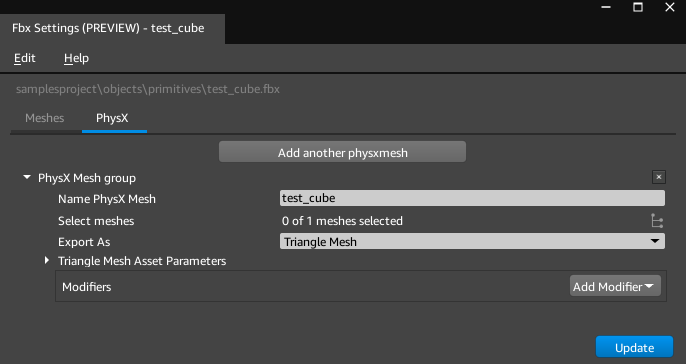
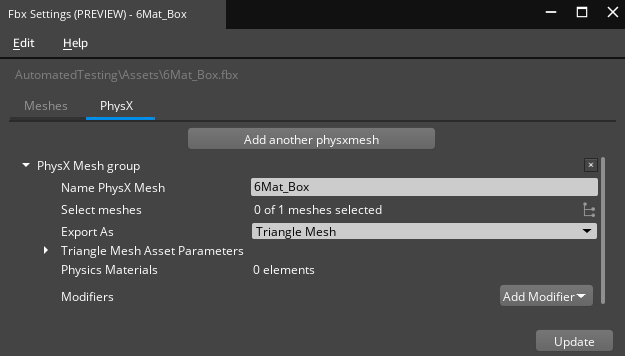
Updated FBX Settings PhysX tab, added Physics Materials entry.

diff --git a/content/docs/user-guide/assets/fbx-settings/settings-physx-tab.md b/content/docs/user-guide/assets/fbx-settings/settings-physx-tab.md
@@ -17,8 +17,8 @@ There are many options for creating PhysX collider assets\. The *best* options i
 + [Primitive asset properties](#fbx-importer-physx-tab-primitive-properties)
 + [Decomposition properties](#fbx-importer-physx-tab-decomposition-properties)
 + [PhysX modifiers](#fbx-settings-physx-modifiers)
-+ [Comment modifier](#w31aac15b9c11c17c23)
-+ [Origin modifier](#w31aac15b9c11c17c25)
+    + [Comment modifier](#w31aac15b9c11c17c23)
+    + [Origin modifier](#w31aac15b9c11c17c25)
 
 ## PhysX tab properties {#fbx-importer-physx-tab-base-properties}
 
@@ -40,6 +40,9 @@ The cooking method to apply to this **PhysX mesh group**\. This setting exposes 
 + Convex \- Generate convex hull colliders based on the selected meshes\.
 + Primitive \- Fit primitive colliders based on the selected meshes\.
 Triangle mesh colliders can only be used with static and kinematic entities\. To use the PhysX collider asset with dynamic entities \(entities that have a **PhysX Rigid Body** component\), choose **Convex** or **Primitive** for the **Export as** property\.
+
+****Physics Materials****
+Associate a physics material to each material from the selected meshes\.
 
 ## Triangle mesh asset properties {#fbx-importer-physx-tab-triangle-properties}
 
@@ -178,13 +181,13 @@ When enabled, the output convex hull vertices are projected onto the original so
 
 Modifiers can be added to a **PhysX mesh group** by choosing the **Add Modifier** button, and selecting a modifier from the list\.
 
-## Comment modifier {#w31aac15b9c11c17c23}
+### Comment modifier {#w31aac15b9c11c17c23}
 
 ![\[The FBX Settings PhysX tab Comment modifier.\]](/images/user-guide/fbx/ui-fbx-settings-mesh-modifier-comment.png)
 
 Add a comment to the file\. You can add a comment about changes made to the `.fbx` file for tracking purposes or notes on export options, for example\. Comments don't affect how files are processed and multiple comment modifiers can be added to a mesh group\.
 
-## Origin modifier {#w31aac15b9c11c17c25}
+### Origin modifier {#w31aac15b9c11c17c25}
 
 ![\[The FBX Settings Meshes tab Origin modifier.\]](/images/user-guide/fbx/ui-fbx-settings-mesh-modifier-origin.png)
 
